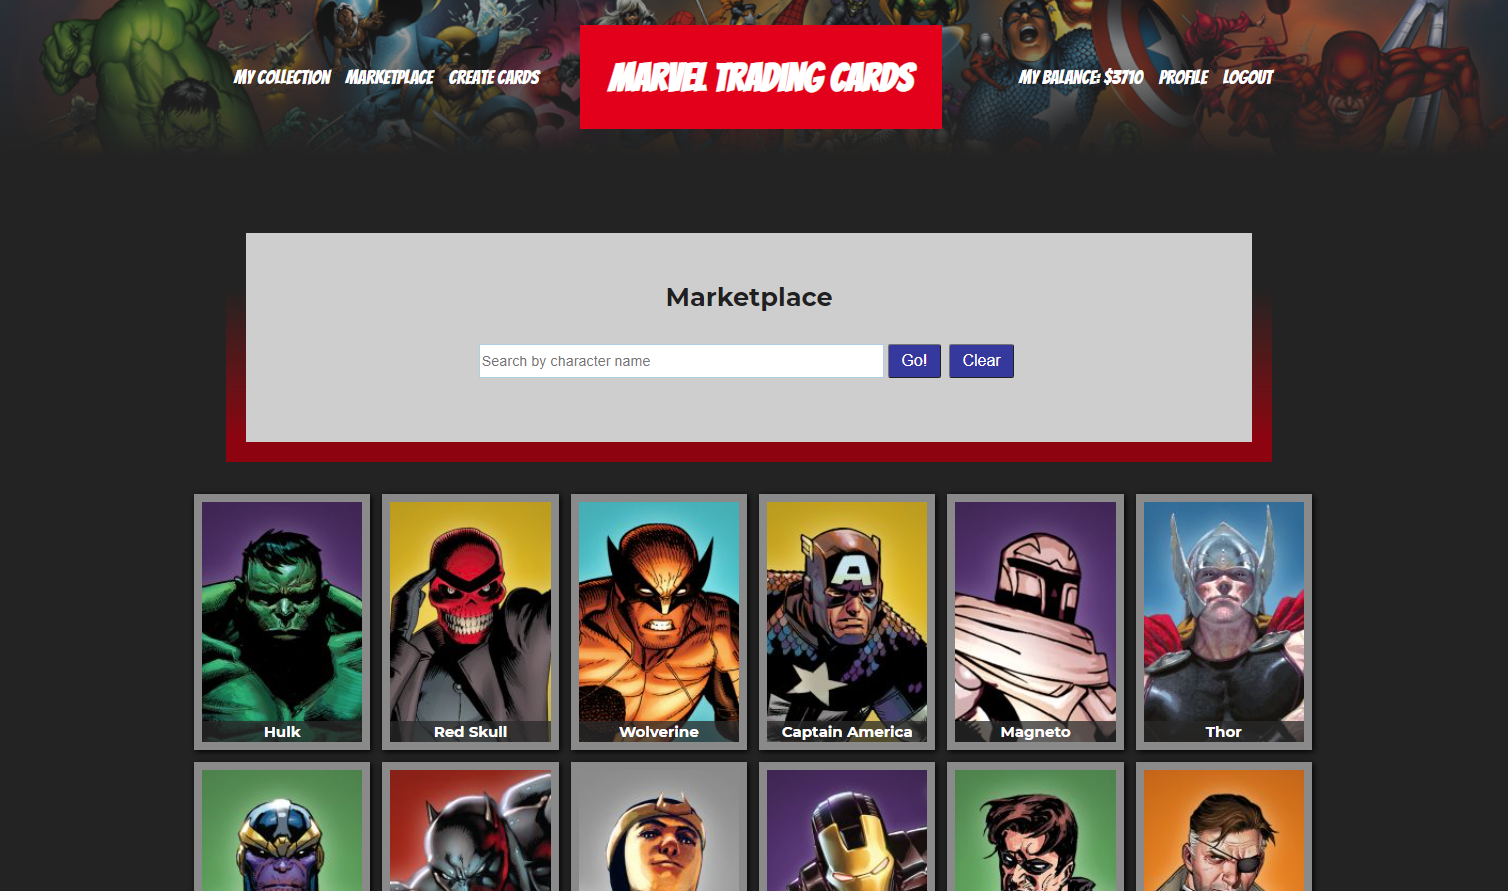
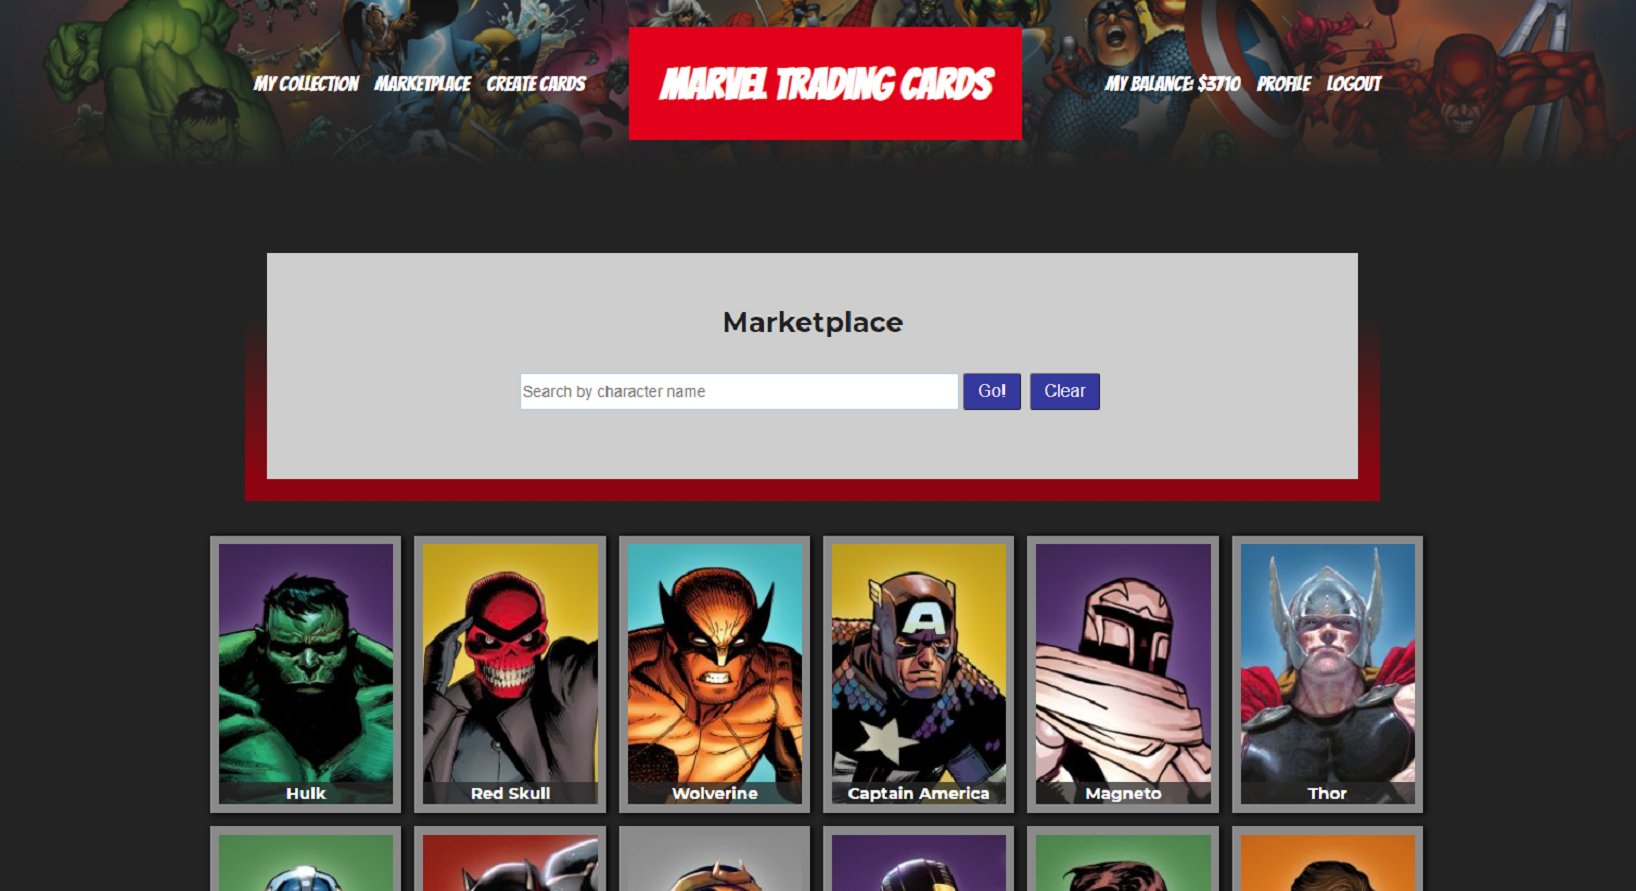
tweak responsive styling

diff --git a/styles/Navbar.module.scss b/styles/Navbar.module.scss
@@ -68,7 +68,8 @@
     }
 
     button {
-      margin-left: 20px;
+      margin: 0;
+      margin-top: 20px;
     }
   }
 
@@ -81,13 +82,20 @@
     padding: 0;
   }
 }
+
+.outHero {
+  background: linear-gradient(
+    90deg,
+    rgba(8, 8, 8, 1) 0%,
+    rgba(37, 37, 37, 1) 100%
+  );
+}
 @media only screen and (min-width: 768px) {
   .navbar {
     position: relative;
     height: var(--nav-height);
-    background: transparent;
     color: var(--text-color);
-    padding: 0 6rem;
+    padding: 0 5rem;
     width: 100%;
     font-family: var(--font-mono);
     position: fixed;
@@ -104,21 +112,9 @@
 
       .logoContainer {
         .logo {
-          width: 55px;
-          height: 55px;
-          // transform-box: fill-box;
-          // transform-origin: center;
-          transition: all 0.5s ease;
-
-          filter: invert(73%) sepia(52%) saturate(744%) hue-rotate(318deg)
-            brightness(102%) contrast(102%);
-
           &:hover {
             transform: rotate(360deg) scale(1.2);
-
             cursor: pointer;
-            // stroke: black;
-            // fill: blue;
           }
         }
       }
@@ -156,22 +152,15 @@
         }
       }
 
-      .span {
-        color: var(--text-secondary);
-        margin: 0 2px;
-      }
-
       .active {
         color: var(--text-secondary);
         filter: brightness(1.2);
       }
-    }
-    .outHero {
-      background: linear-gradient(
-        90deg,
-        rgba(8, 8, 8, 1) 0%,
-        rgba(37, 37, 37, 1) 100%
-      );
+
+      button {
+        margin: 0;
+        margin-left: 20px;
+      }
     }
 
     .hamburger {

diff --git a/styles/Project.module.scss b/styles/Project.module.scss
@@ -1,8 +1,9 @@
 .project {
-  margin: 0 0 250px 0;
+  margin: 0 0 50px 0;
   color: white;
   display: grid;
   border-radius: 10px;
+  width: 100%;
 
   .content {
     padding: 20px 20px 20px 20px;
@@ -33,6 +34,7 @@
     .techList {
       margin: 0 0 20px 0;
       font-family: var(--font-mono);
+      font-size: clamp(0.5rem, 4vw, 1rem);
 
       ul {
         display: flex;
@@ -73,10 +75,9 @@
 
     img {
       object-fit: cover;
-      height: 100%;
+      width: 100%;
 
       border-radius: var(--border-radius);
-      // filter: grayscale(10%);
       opacity: 0.8;
       transition: all 0.15s ease-in-out;
       transition: transform 0.3s ease-in-out;
@@ -95,12 +96,16 @@
   }
 }
 
+@media (min-width: 375px) {
+}
+
 @media (min-width: 768px) {
   .project {
     grid-template-columns: repeat(12, 1fr);
     align-items: center;
     gap: 10px;
     background-color: var(--background-color);
+    margin-bottom: 150px;
     .content {
       padding: 20px 20px 20px 0px;
       width: 100%;

diff --git a/data/data.js b/data/data.js
@@ -24,8 +24,8 @@ export const projectDatabase = [
     category: "featured",
     title: "Marvel Trading Cards",
     description:
-      "A web app that allows users to trade Marvel character themed trading cards. New cards can be added to the database by using the Marvel API.",
-    tech: ["Ruby", "Sinatra", "Postgress", "Authentication", "HTML", "CSS"],
+      "A web app that allows users to trade Marvel character themed trading cards.  New cards can be added to the database by using the Marvel API.",
+    tech: ["Ruby", "Sinatra", "Postgress", "HTML", "CSS"],
     links: {
       github: "https://github.com/adamgonlag/trading_cards",
       demo: "https://nameless-castle-77437.herokuapp.com/",

diff --git a/pages/api/contact/index.js b/pages/api/contact/index.js
@@ -35,12 +35,12 @@ export default async function handler(req, response) {
     } catch (error) {
       console.log("Errors occurred, failed to deliver message");
 
-      if (err.response && err.response.body && err.response.body.errors) {
-        err.response.body.errors.forEach((error) =>
+      if (error.response && error.response.body && error.response.body.errors) {
+        error.response.body.errors.forEach((error) =>
           console.log("%s: %s", error.field, error.message)
         );
       } else {
-        console.log(err);
+        console.log(error);
       }
 
       res.status(err).json({});

diff --git a/styles/globals.scss b/styles/globals.scss
@@ -34,8 +34,8 @@ body {
     rgba(8, 8, 8, 1) 0%,
     rgba(37, 37, 37, 1) 100%
   );
-  background-repeat: no-repeat;
-  background-attachment: fixed;
+  // background-repeat: no-repeat;
+  // background-attachment: fixed;
 }
 
 a {
@@ -121,7 +121,7 @@ section {
       width: 300px;
       height: 1px;
       margin-left: 10px;
-      background-color: white;
+      background-color: var(--text-secondary);
     }
   }
 }

diff --git a/styles/ContactForm.module.scss b/styles/ContactForm.module.scss
@@ -3,7 +3,7 @@
   text-align: center;
 
   .field {
-    width: 400px;
+    width: 100%;
     margin: 2rem 0;
     position: relative;
     border-radius: 4px;
@@ -15,7 +15,7 @@
       font-size: 0.75em;
       background-color: var(--bg);
       color: var(--text-secondary);
-      top: -14px;
+      top: -11px;
       -webkit-transition: all 0.225s ease;
       transition: all 0.225s ease;
     }
